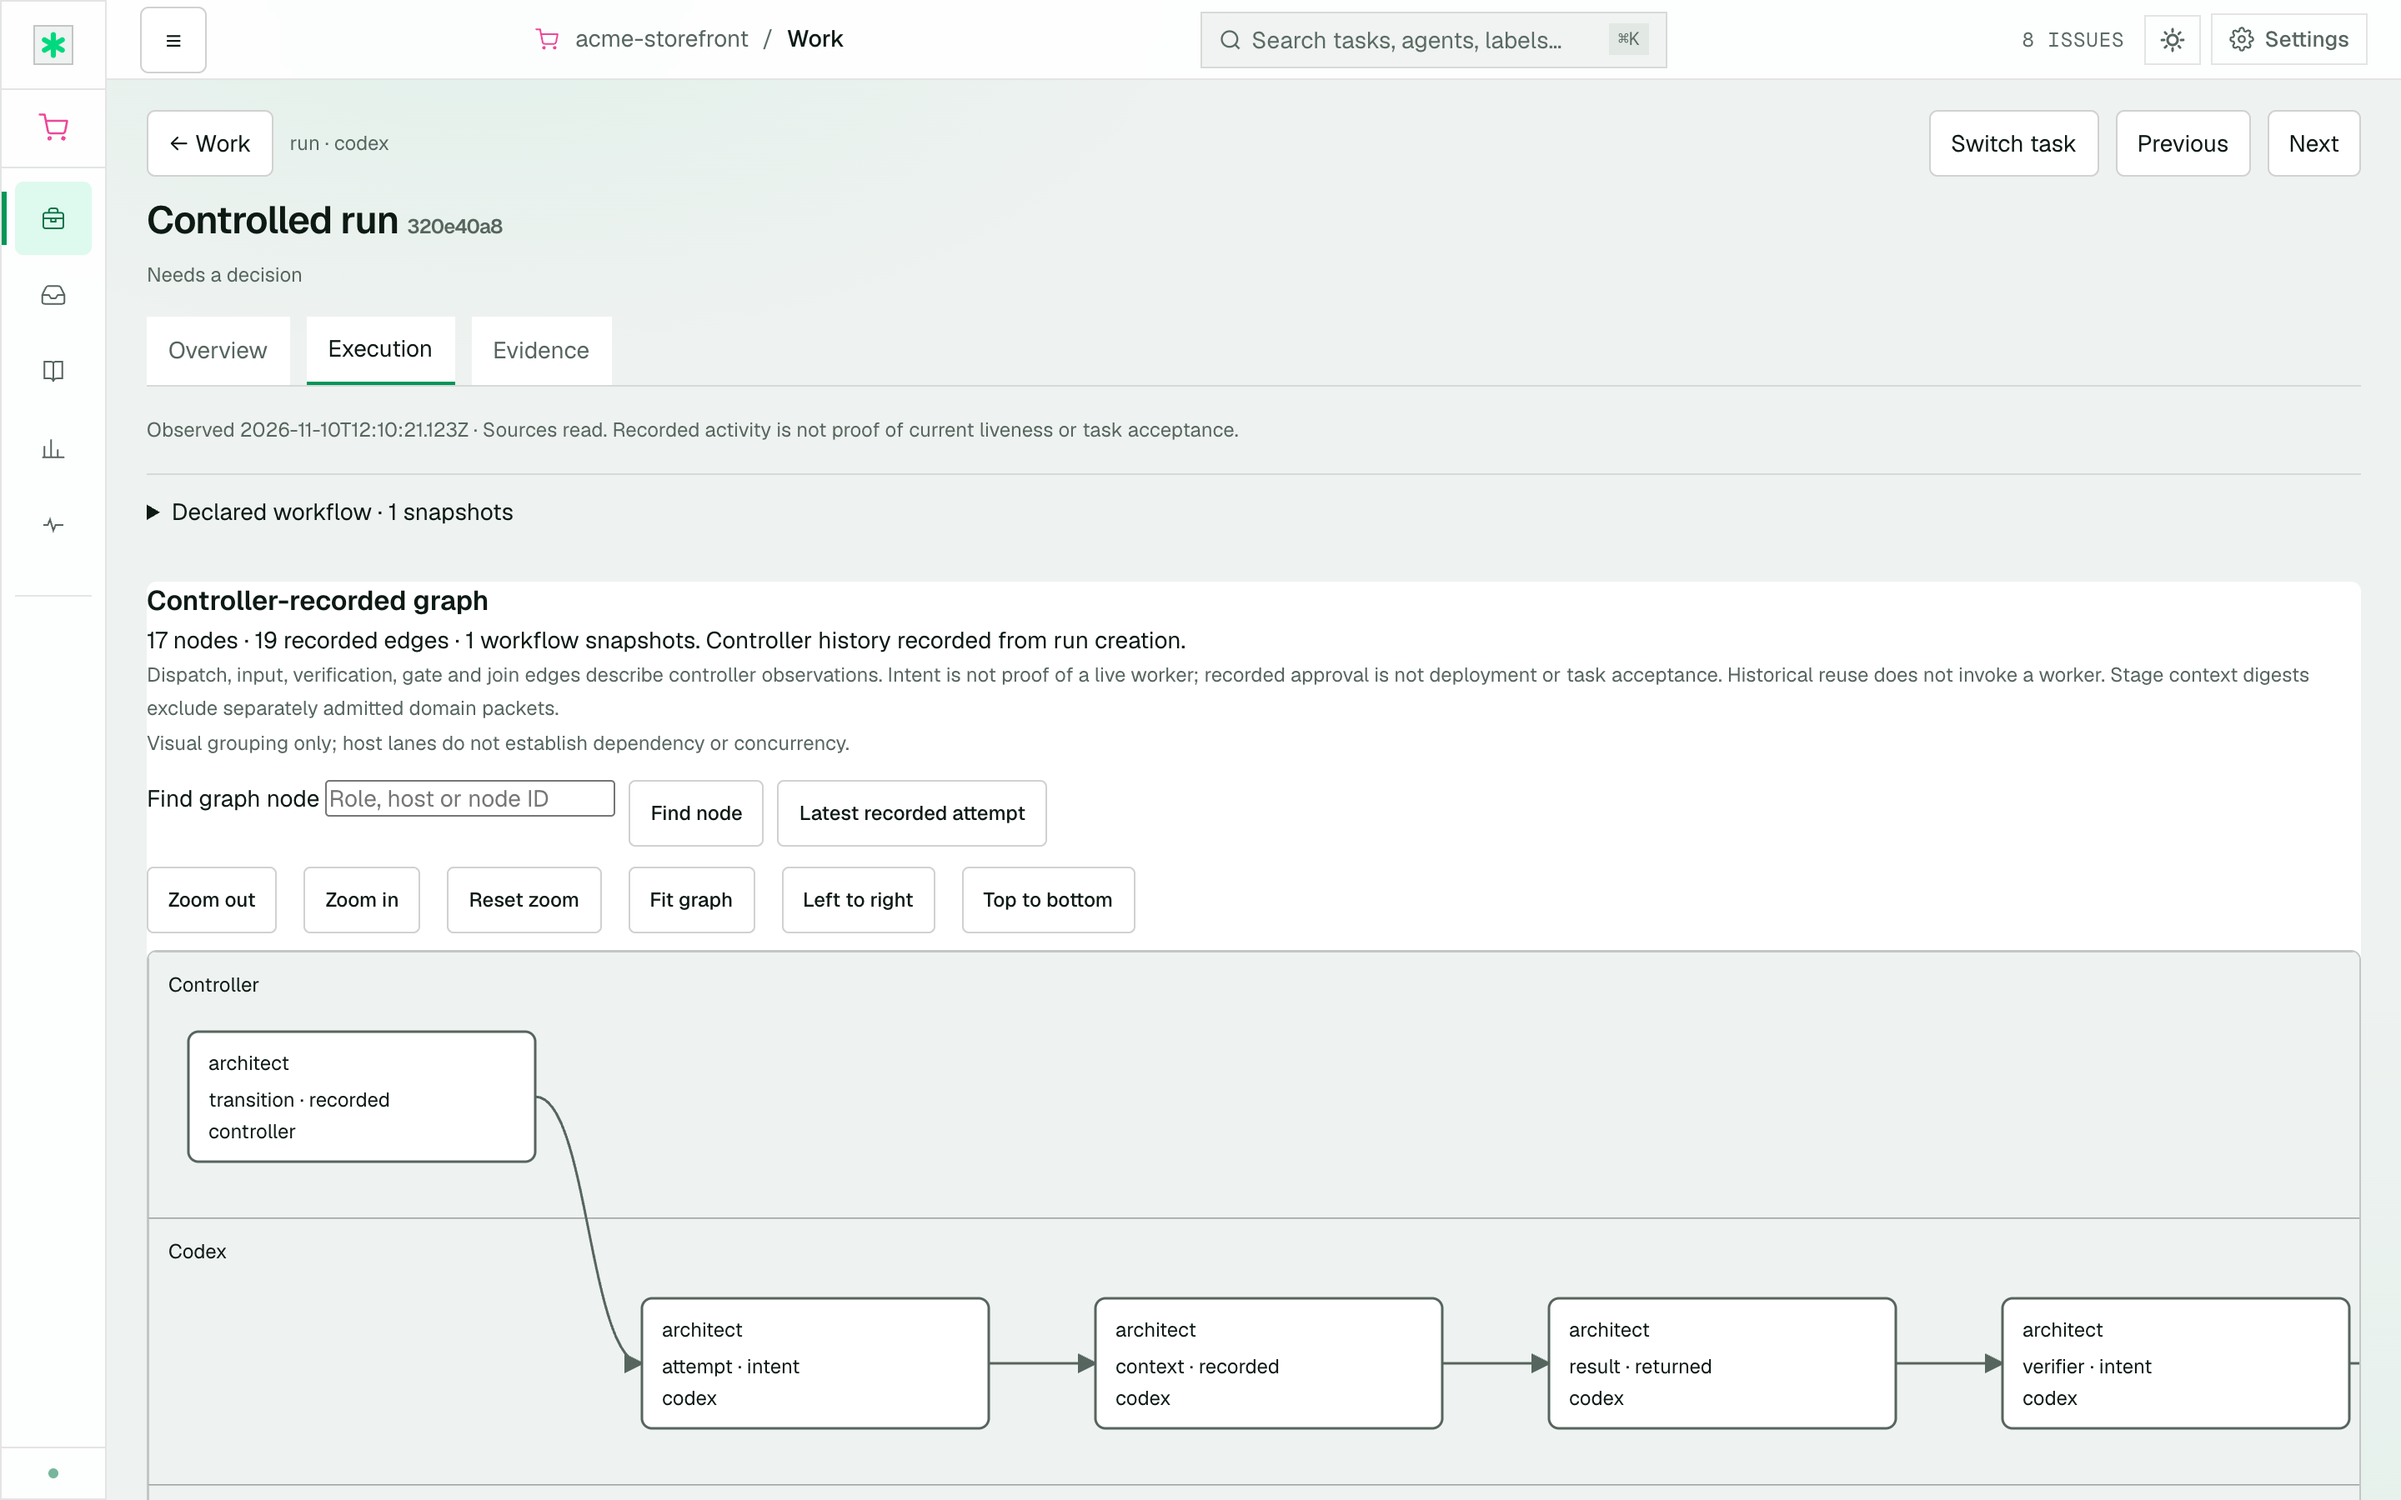
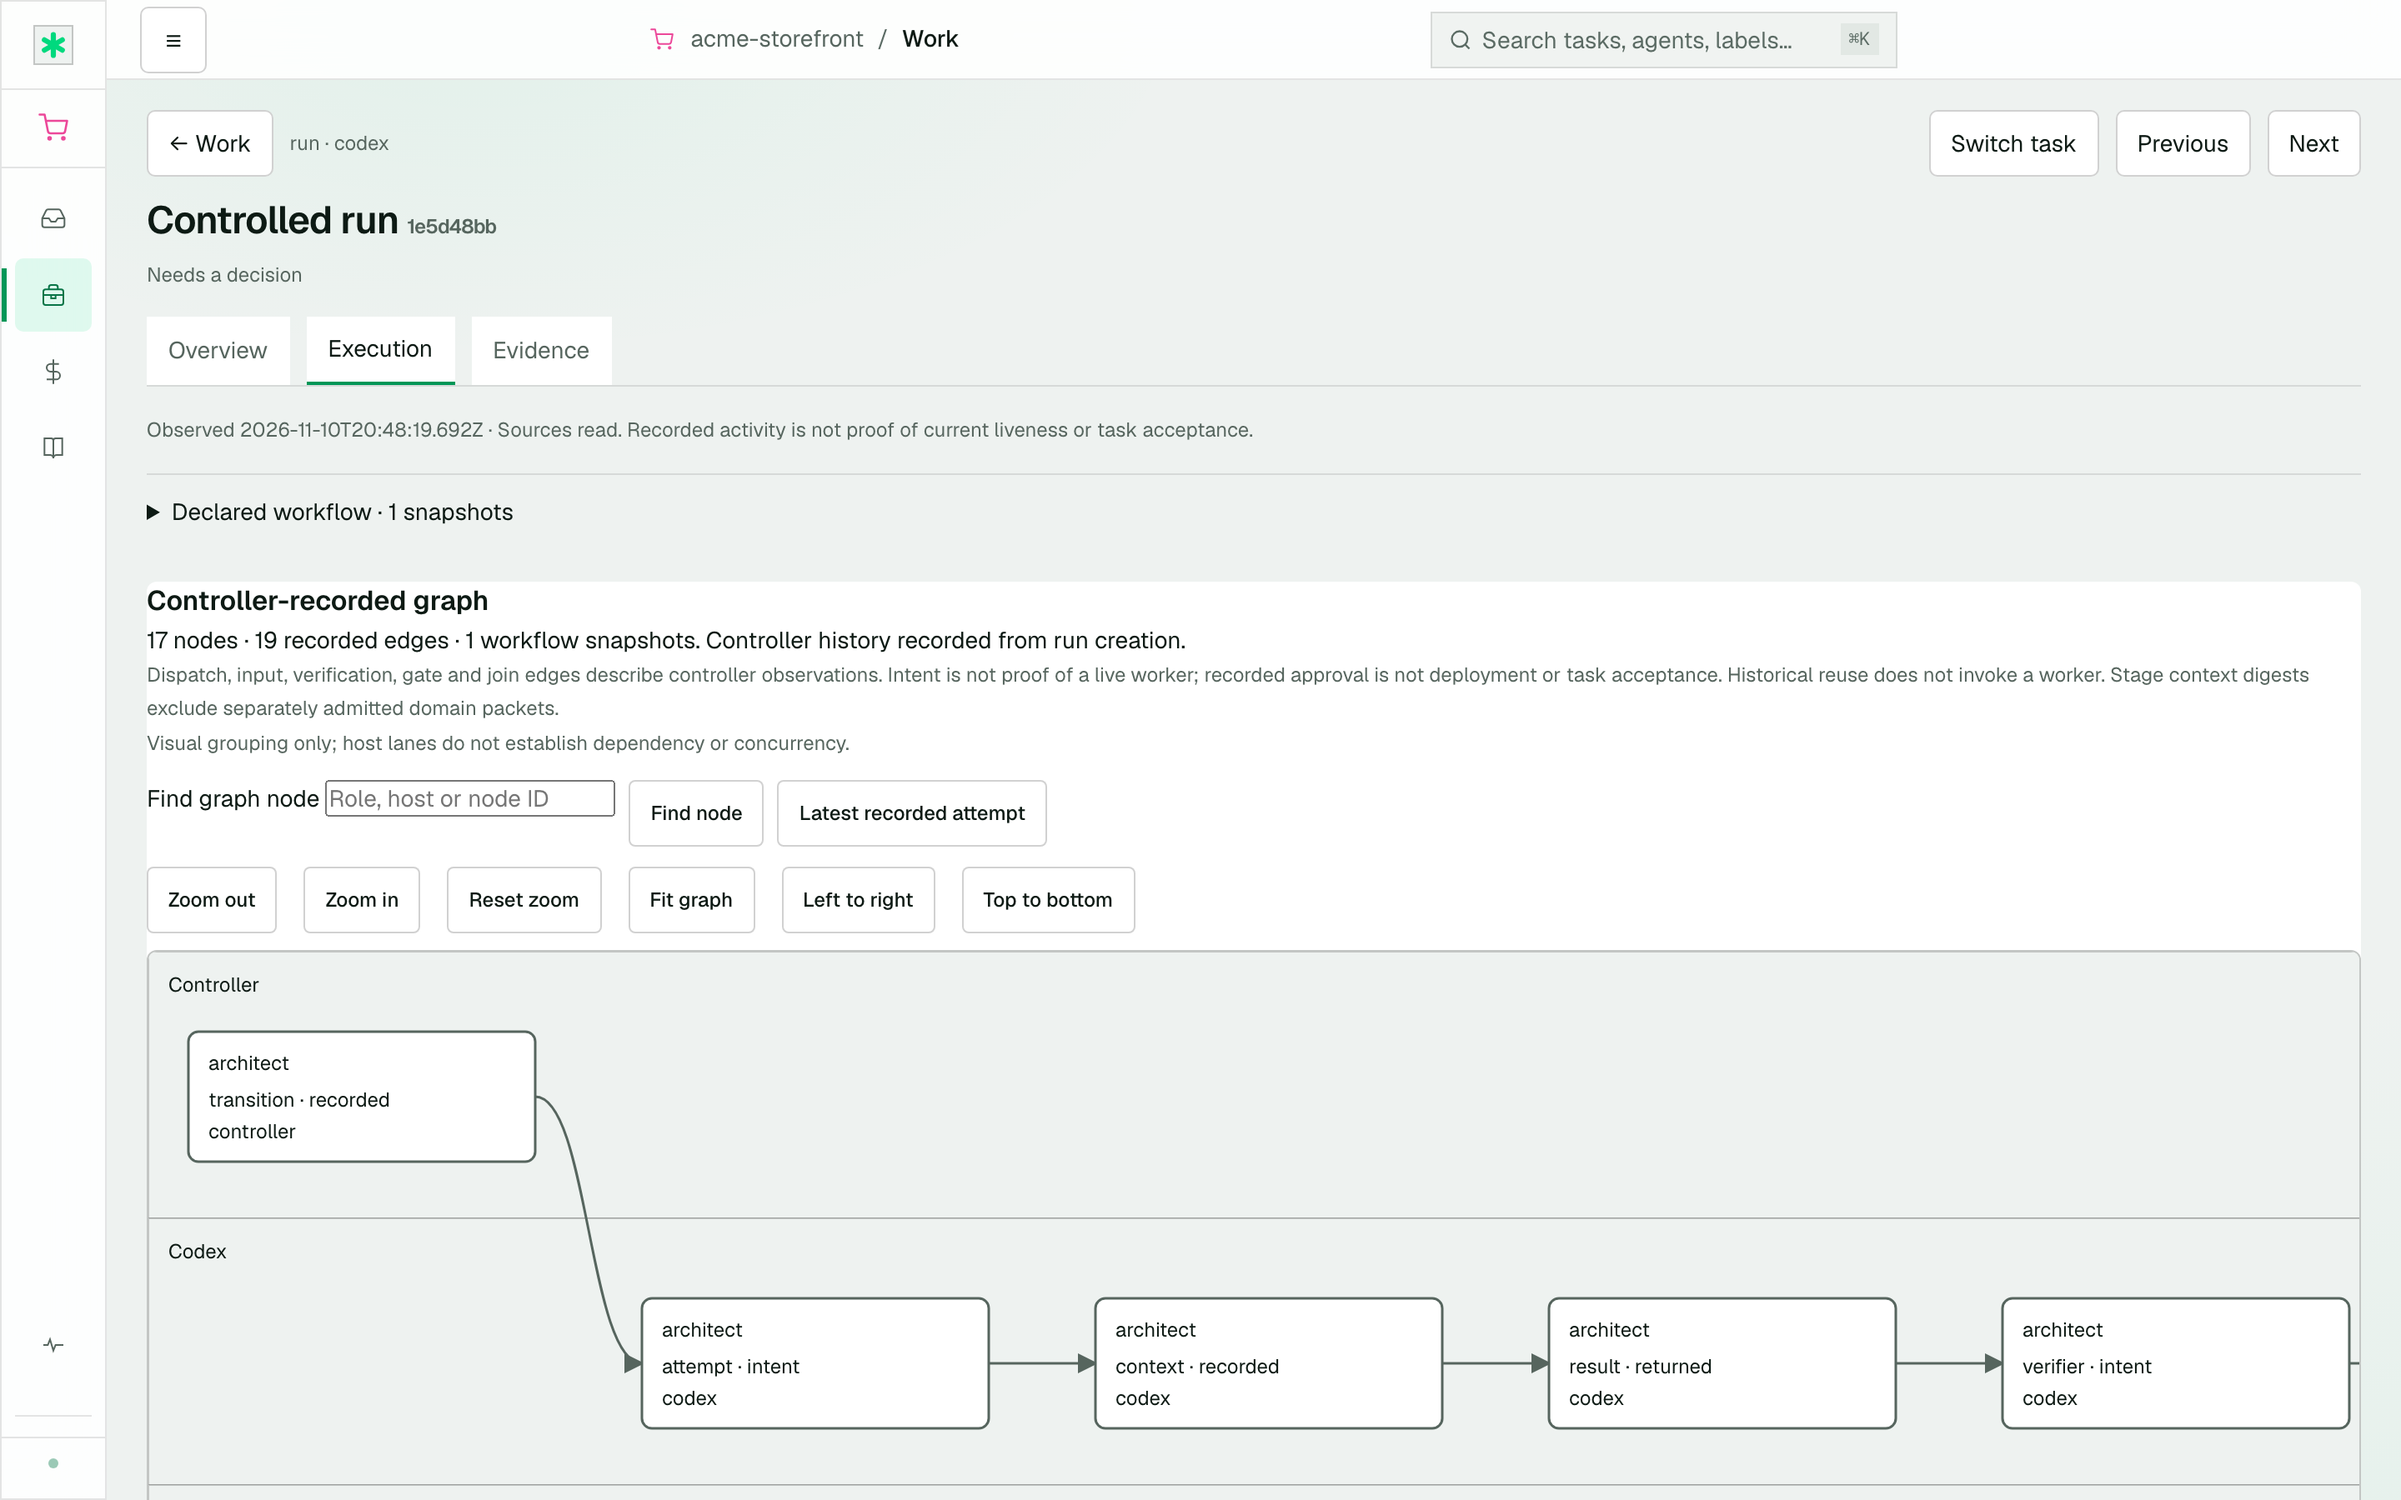
chore(release): prepare 3.78.0 candidate

diff --git a/CHANGELOG.md b/CHANGELOG.md
@@ -4,6 +4,31 @@ All notable changes to great_cto are documented here.
 
 ---
 
+
+## v3.78.0 — 2026-11-10
+
+The board opens on Home and shows cost on one screen; its local API stops answering other web pages.
+
+### Changed
+
+- **Home is the board's landing screen** (#271). One "needs you" count, from one counting function, and one source for what is running now. The navigation is Home · Work · Cost · Knowledge · Settings. Design approved by the owner in Claude Design; the audit and its deviations are in `docs/design/UX-AUDIT-board-2026-11.md`.
+- **Cost is one screen instead of the Insights tabs** (#271). Period chips for 7, 30 and 90 days, one alert for agents over their cap, measured spend next to the API list price, one line of results and one "By agent" table with an aggregate row for agents without a cap. Idle agents and the data caveats are folded. Old links (`#/insights`, `#/ledger`, `#/budgets`, `#/insights/consumption`, `#/insights/outcomes`) still land. Changing a cap can remove it.
+
+### Security
+
+- **The board's local API refuses cross-site requests** (#270, ADR-048). CORS is limited to the board's own origins (it was `*`), a request to `/api/*` from another site is refused with 403, and binding to a non-loopback address without authentication is refused. `docs/PRIVACY.md` describes it.
+
+### Fixed
+
+- **Browser checks launch the bundled Chromium**, not the installed Chrome, so gate runs no longer leave Chrome code-sign copies on the disk (#270).
+- The Outcomes table region can be focused from the keyboard.
+
+### Docs
+
+- RFC draft: `docs/rfc/RFC-accounts-sso-and-hosting.md` (decisions open).
+
+---
+
 ## v3.77.0 — 2026-11-10
 
 Web frontends and mobile builds get their own release agent, and a production promote or store submission now always stops at `gate:release`.

diff --git a/skills/codex-host/SKILL.md b/skills/codex-host/SKILL.md
@@ -17,8 +17,8 @@ transition.
 ## Preflight
 
 ```sh
-npx --yes great-cto@3.77.0 codex-host doctor
-npx --yes great-cto@3.77.0 codex-host list --dir /absolute/project
+npx --yes great-cto@3.78.0 codex-host doctor
+npx --yes great-cto@3.78.0 codex-host list --dir /absolute/project
 ```
 
 `doctor.state=blocked` means do not start. Docker may be unavailable when no
@@ -32,7 +32,7 @@ Policies must be operator-owned absolute files outside the worker project.
 Allowed paths are explicit controller write boundaries.
 
 ```sh
-npx --yes great-cto@3.77.0 codex-host start \
+npx --yes great-cto@3.78.0 codex-host start \
   --dir /absolute/project \
   --prompt "the requested outcome" \
   --allow src,tests,docs \
@@ -58,9 +58,9 @@ Then pass back the controller-issued token; never synthesize or persist one in a
 project file.
 
 ```sh
-npx --yes great-cto@3.77.0 codex-host approve RUN_UUID --token GATE_TOKEN
-npx --yes great-cto@3.77.0 codex-host approve-release RUN_UUID --token RELEASE_TOKEN
-npx --yes great-cto@3.77.0 codex-host resume RUN_UUID
+npx --yes great-cto@3.78.0 codex-host approve RUN_UUID --token GATE_TOKEN
+npx --yes great-cto@3.78.0 codex-host approve-release RUN_UUID --token RELEASE_TOKEN
+npx --yes great-cto@3.78.0 codex-host resume RUN_UUID
 ```
 
 Use `recover` only after inspecting the recorded reason. Recovery reuses the

diff --git a/docs/HOST-CODEX.md b/docs/HOST-CODEX.md
@@ -16,14 +16,14 @@ Run through the version-pinned npm entrypoint. Installing the Codex plugin does
 not add an executable to `PATH`:
 
 ```sh
-npx --yes great-cto@3.77.0 codex-host doctor
-npx --yes great-cto@3.77.0 codex-host start --dir /path/to/project --allow src,docs --prompt 'Implement the specified feature'
-npx --yes great-cto@3.77.0 codex-host status <run-uuid>
-npx --yes great-cto@3.77.0 codex-host approve <run-uuid> --token <pending-token>
-npx --yes great-cto@3.77.0 codex-host resume <run-uuid>
-npx --yes great-cto@3.77.0 codex-host recover <run-uuid>
-npx --yes great-cto@3.77.0 codex-host cancel <run-uuid>
-npx --yes great-cto@3.77.0 codex-host list --dir /path/to/project
+npx --yes great-cto@3.78.0 codex-host doctor
+npx --yes great-cto@3.78.0 codex-host start --dir /path/to/project --allow src,docs --prompt 'Implement the specified feature'
+npx --yes great-cto@3.78.0 codex-host status <run-uuid>
+npx --yes great-cto@3.78.0 codex-host approve <run-uuid> --token <pending-token>
+npx --yes great-cto@3.78.0 codex-host resume <run-uuid>
+npx --yes great-cto@3.78.0 codex-host recover <run-uuid>
+npx --yes great-cto@3.78.0 codex-host cancel <run-uuid>
+npx --yes great-cto@3.78.0 codex-host list --dir /path/to/project
 ```
 
 For a mixed run from a source checkout, assign roles at start. Unlisted roles
